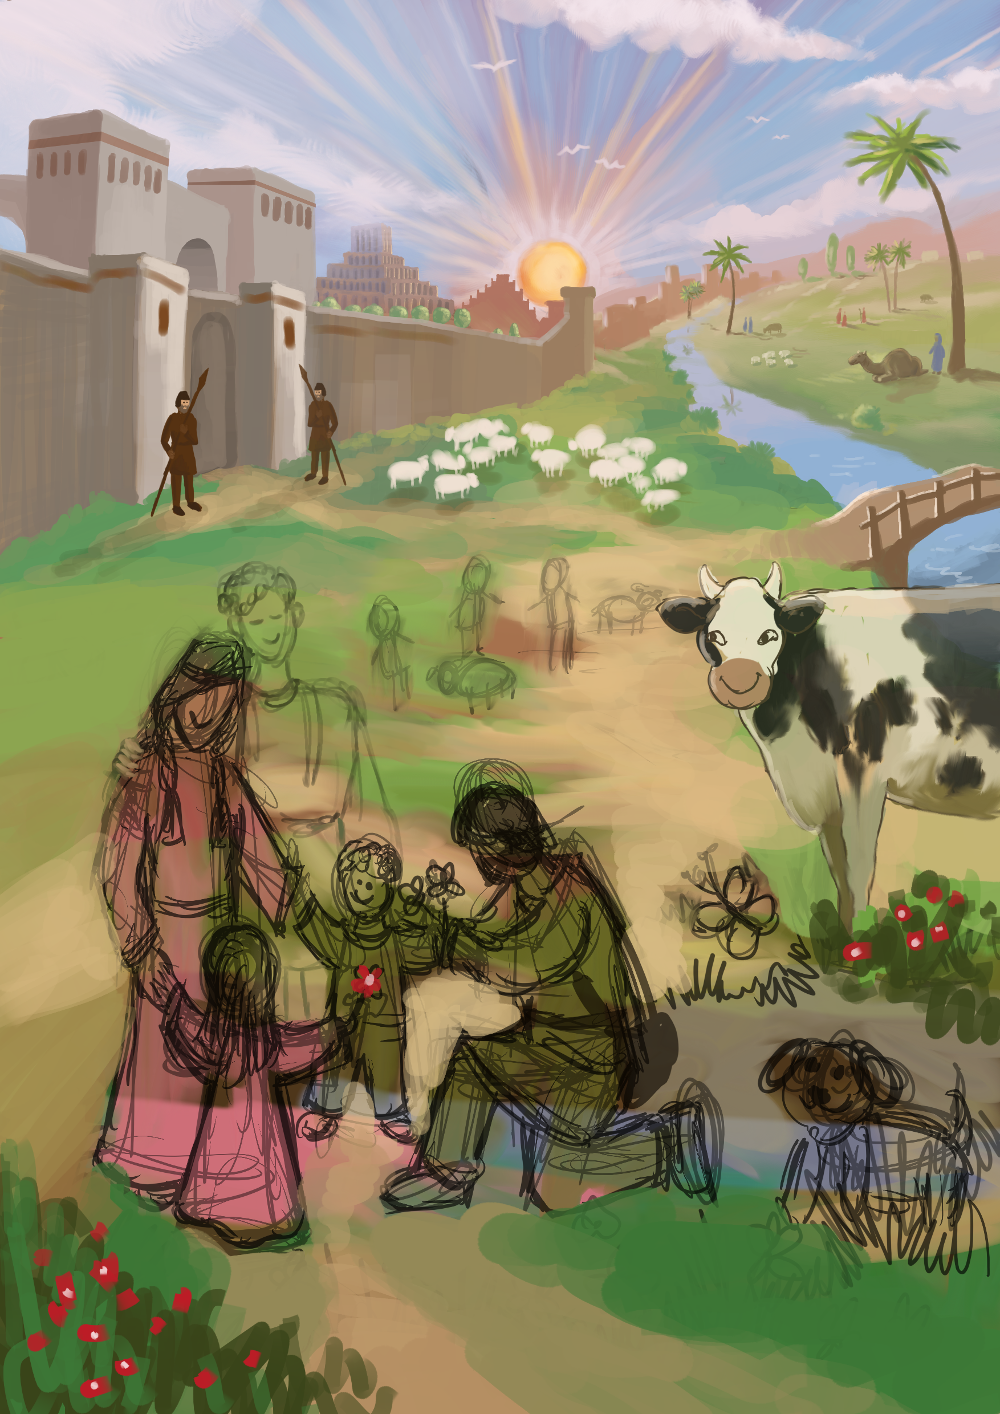
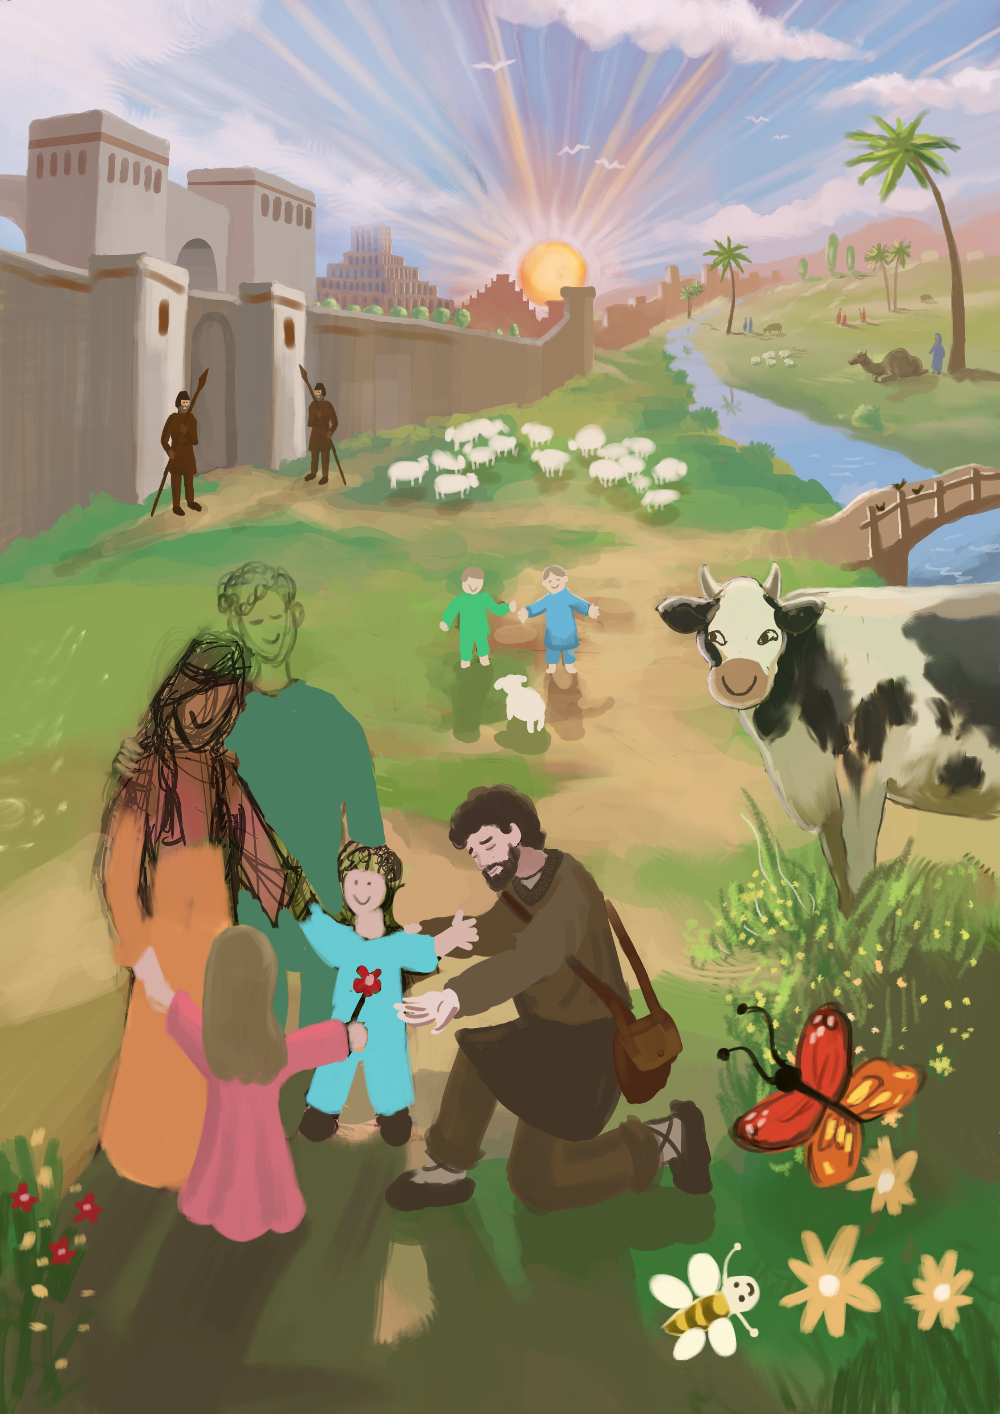
Update 55.

diff --git a/script.js b/script.js
@@ -4,7 +4,7 @@ angular.module('galleryApp', [])
     gallery.language = "ro";
     gallery.work_start_date = new Date(2016,05,20);
 
-    gallery.worked_hours = 133;  // EDIT HERE
+    gallery.worked_hours = 135;  // EDIT HERE
 
     gallery.get_global_progress = function() {
       var index;
@@ -611,7 +611,7 @@ angular.module('galleryApp', [])
       {
         id: 55,
         img: '55.png',
-        done: 75,
+        done: 85,
         text: {
           ro: "4:11. Şi Mie să nu-Mi fie milă de Ninive, cetatea cea mare, în care se află mai mult de o sută douăzeci de mii de oameni care nu ştiu să deosebească dreapta de stânga lor, afară de o mulţime de vite!\"",
           en: "4:11. And should not I spare Nineveh, that great city, wherein are more than sixscore thousand persons that cannot discern between their right hand and their left hand; and also much cattle?"
